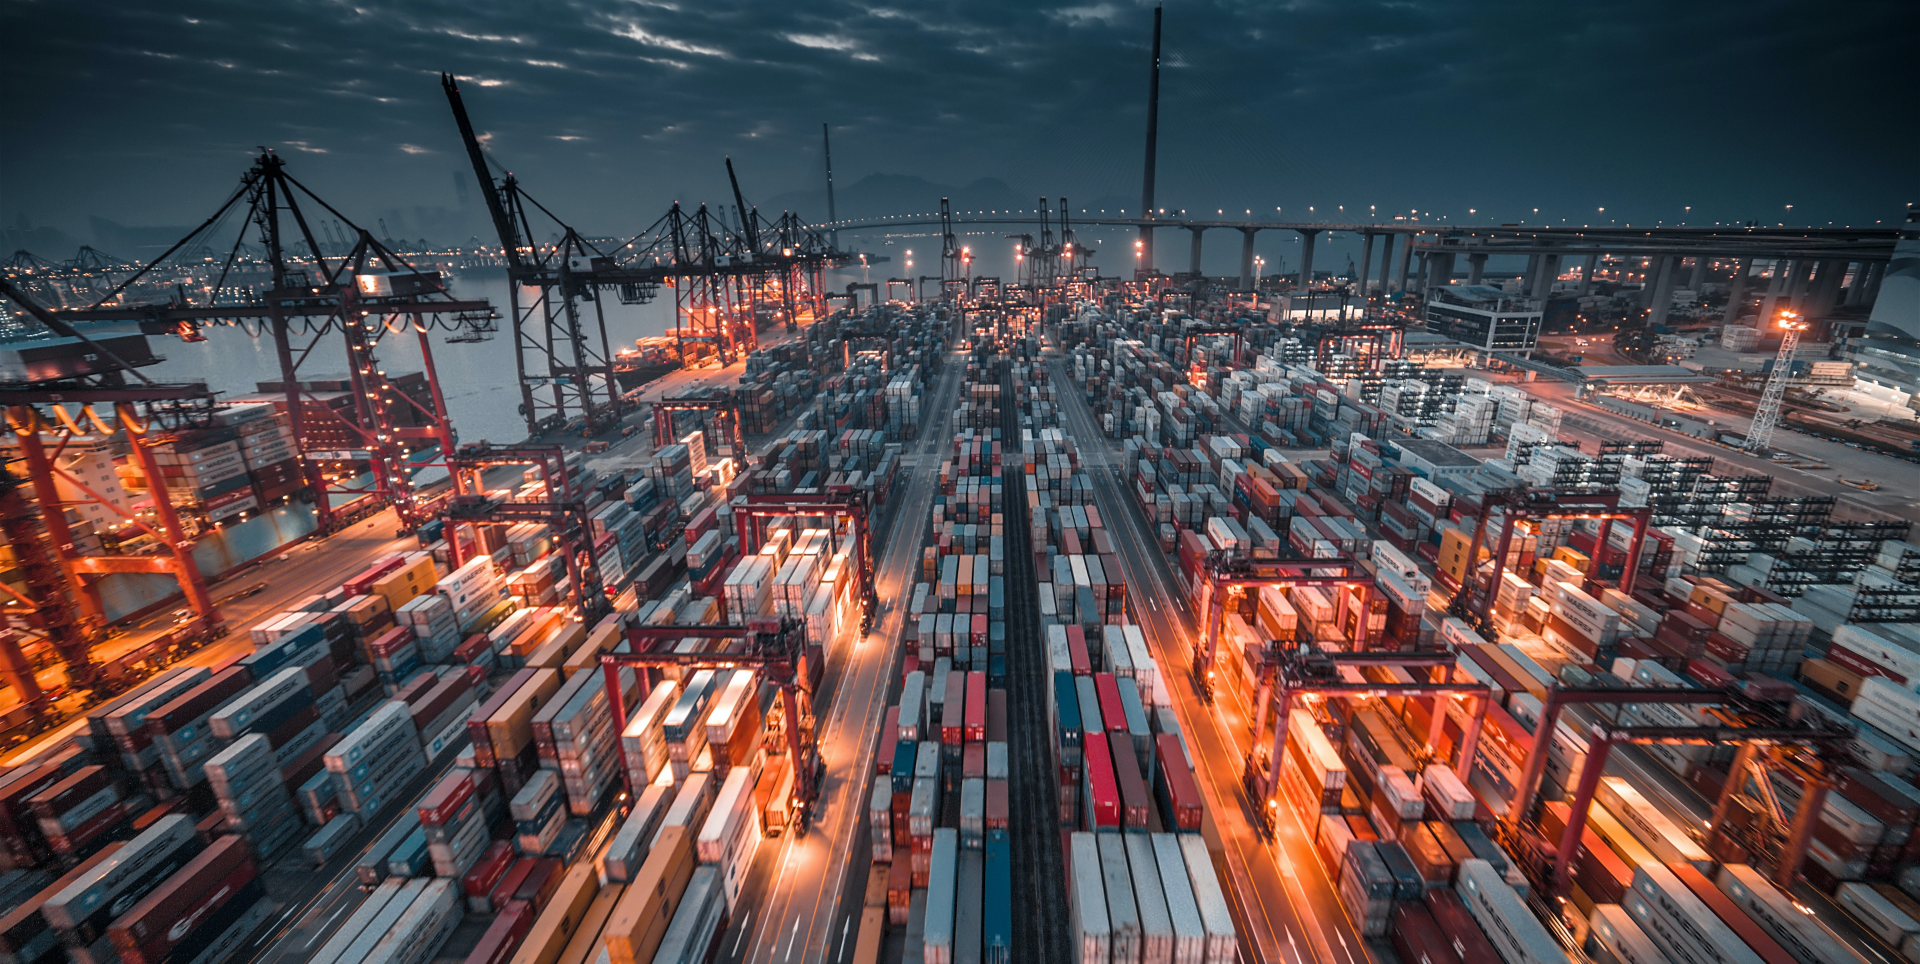
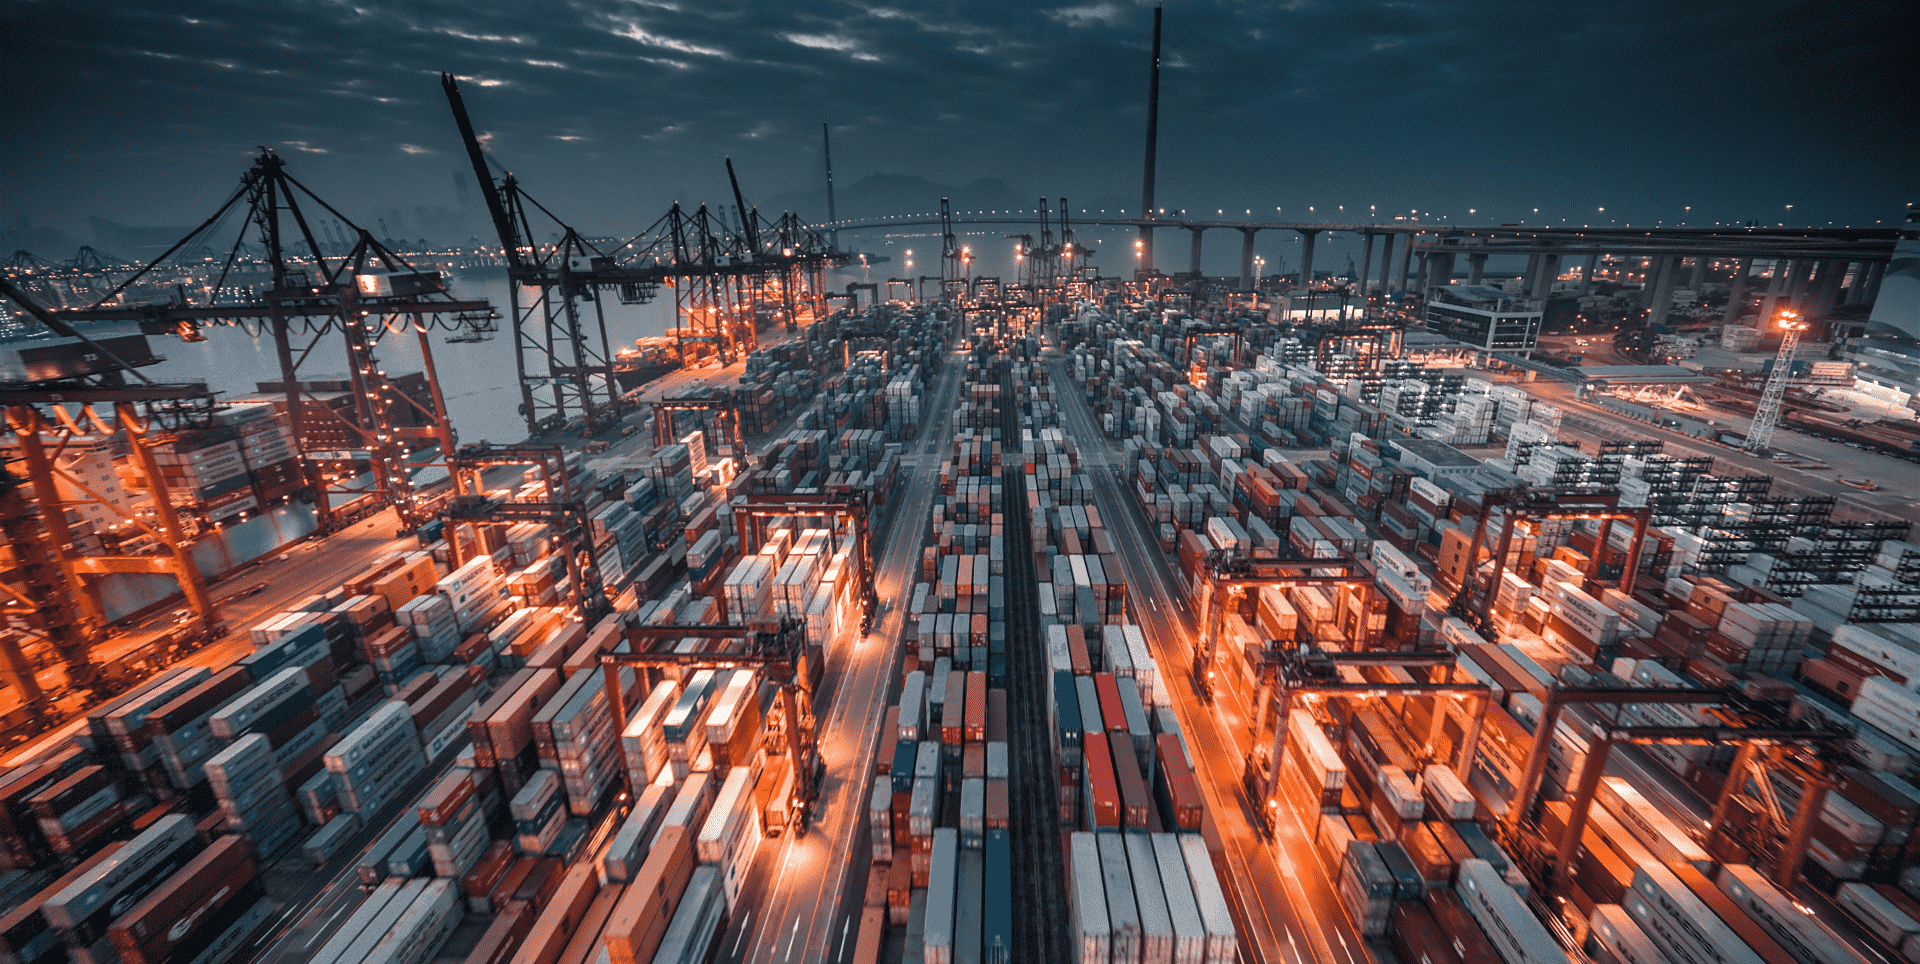
Add files via upload

diff --git a/index.html b/index.html
@@ -117,7 +117,7 @@
     <div id="carouselExampleControls" class="carousel slide" data-bs-ride="carousel">
       <div class="carousel-inner">
         <div class="carousel-item active">
-          <div class="bann-slide" style="background: url(images/banner-slide.png);">
+          <div class="bann-slide" style="background: url(images/slide1.png);">
             <div class="banner-text">
               <h1 class="text-white">Welcome to Seagull Maritime Agencies </h1>
               <p>Your Friend At Sea</p>
@@ -125,14 +125,14 @@
           </div>
         </div>
         <div class="carousel-item">
-          <div class="bann-slide" style="background: url(images/banner-slide.png);">
+          <div class="bann-slide" style="background: url(images/slide2.png);">
             <div class="banner-text">
               <h1 class="text-white">We focus on providing customers with total logistics solutions</h1>
             </div>
           </div>
         </div>
         <div class="carousel-item">
-          <div class="bann-slide" style="background: url(images/banner-slide.png);">
+          <div class="bann-slide" style="background: url(images/slide3.jpg);">
             <div class="banner-text">
               <h1 class="text-white">Rely on our efficient freight management services for reliable solutions</h1>
             </div>
